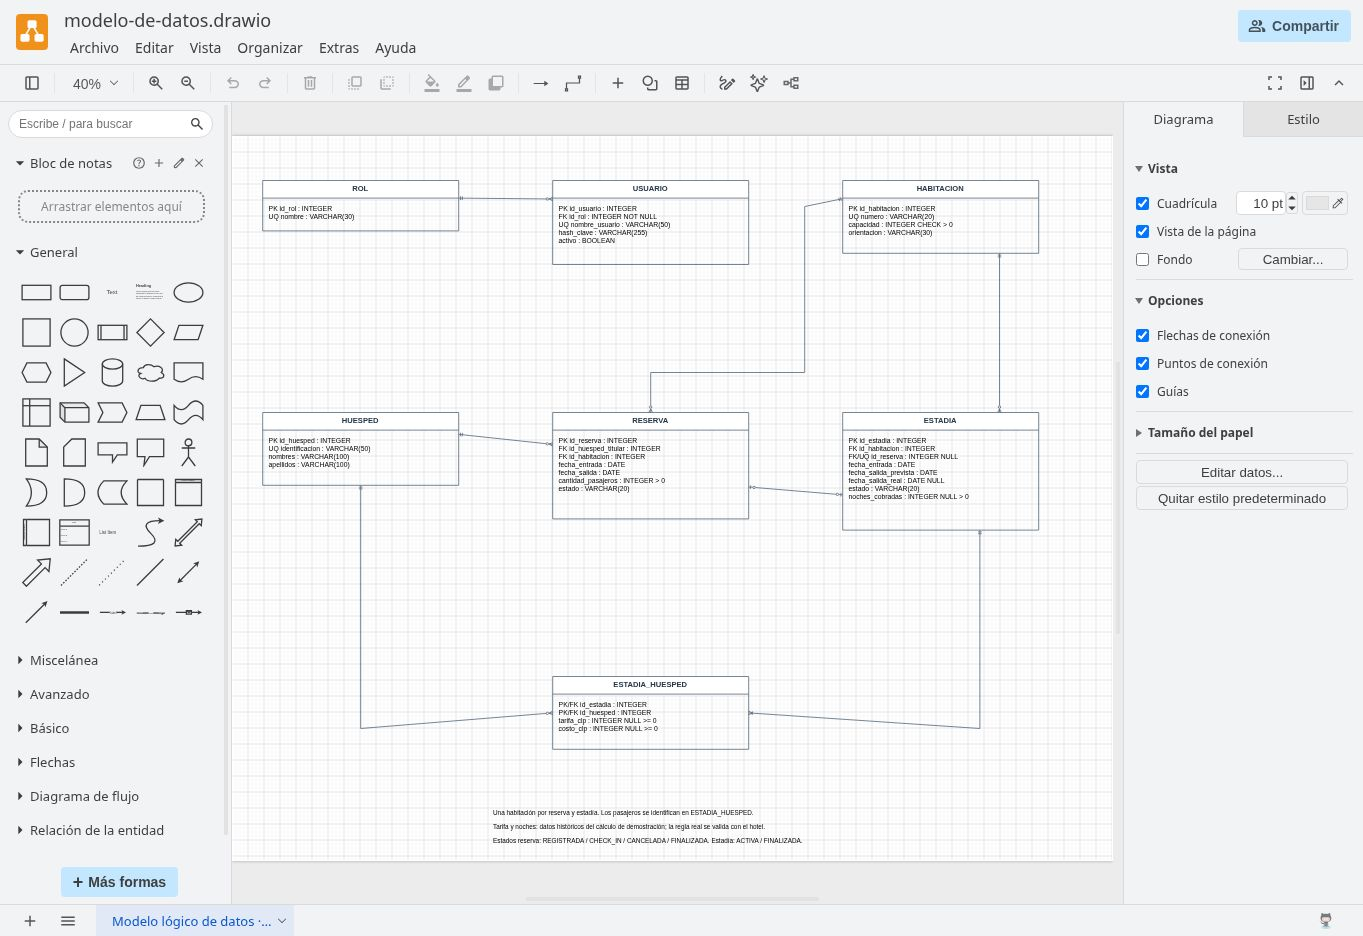
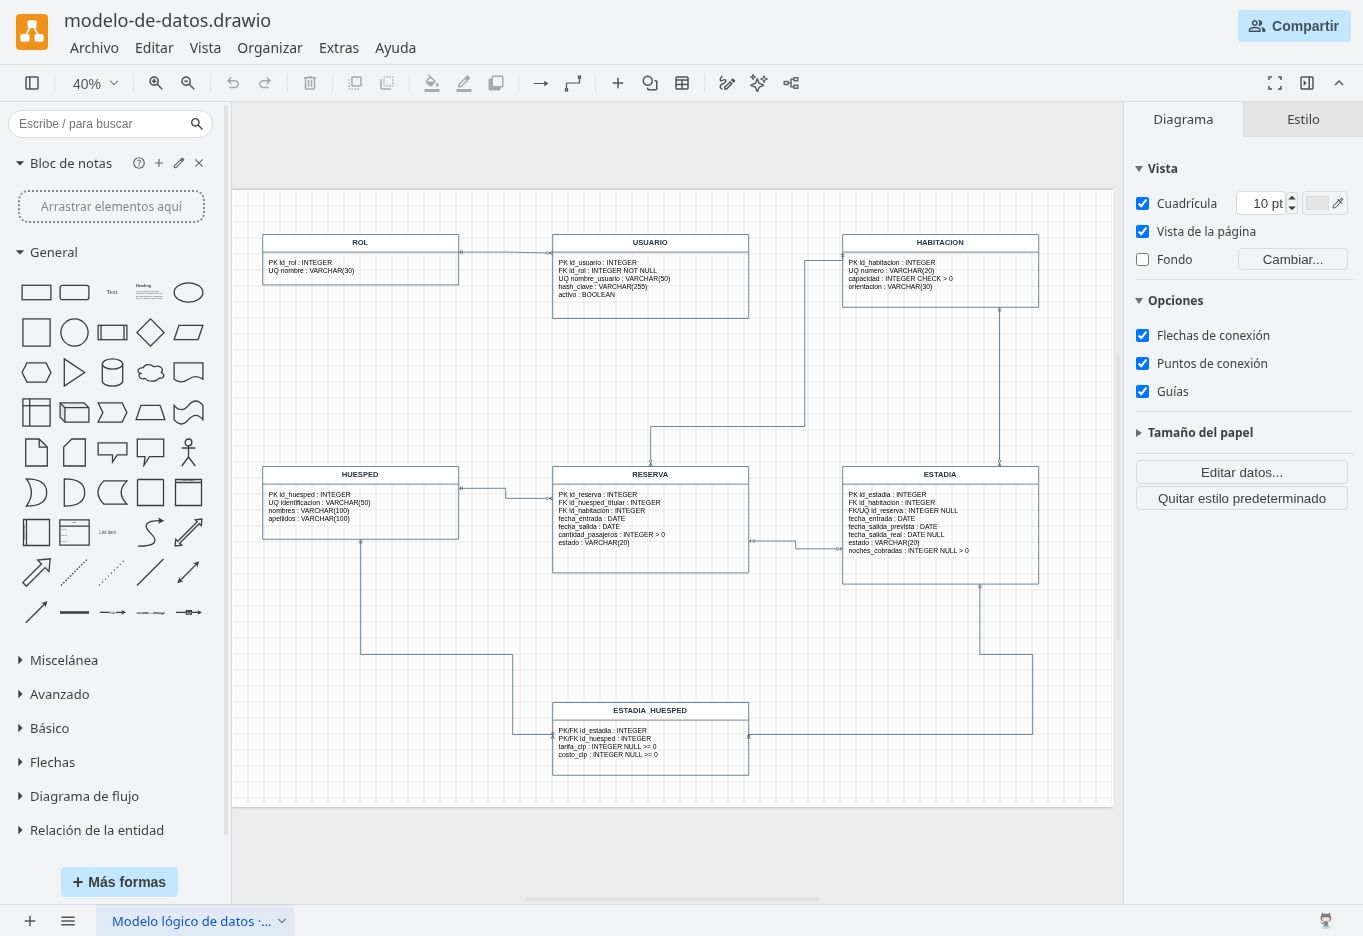
Actualizar evidencia de los diagramas corregidos

diff --git a/evidencia/verificacion.md b/evidencia/verificacion.md
@@ -4,10 +4,13 @@
 - Pruebas de modelado: códigos de casos de uso, trazabilidad, dos salidas en decisiones, conectores vinculados y nueve pantallas en ambos niveles.
 - Navegador público: reserva de habitación 201 para dos pasajeros del 1 al 3 de octubre; check-in con Ana y Luis; cálculo de dos noches a $10.000 por pasajero; $20.000 por persona y $40.000 total; check-out guardado y habitación liberada.
 - Recarga del prototipo: el historial individual se conserva en este navegador.
-- diagrams.net: el enlace abre modelo-de-datos.drawio con tablas y relaciones editables.
+- diagrams.net: los enlaces abren los archivos con tablas, relaciones y conectores editables.
+- Revisión visual: las inclusiones llegan a puntos separados; se retiraron recorridos y leyendas innecesarias.
 
 Datos, perfiles y tarifa son de demostración.
 
 ![Cuenta individual](cuenta-verificada.jpg)
+
+![Casos de uso con flechas separadas](flechas-corregidas.jpg)
 
 ![Modelo abierto en el editor](modelo-editor.jpg)
